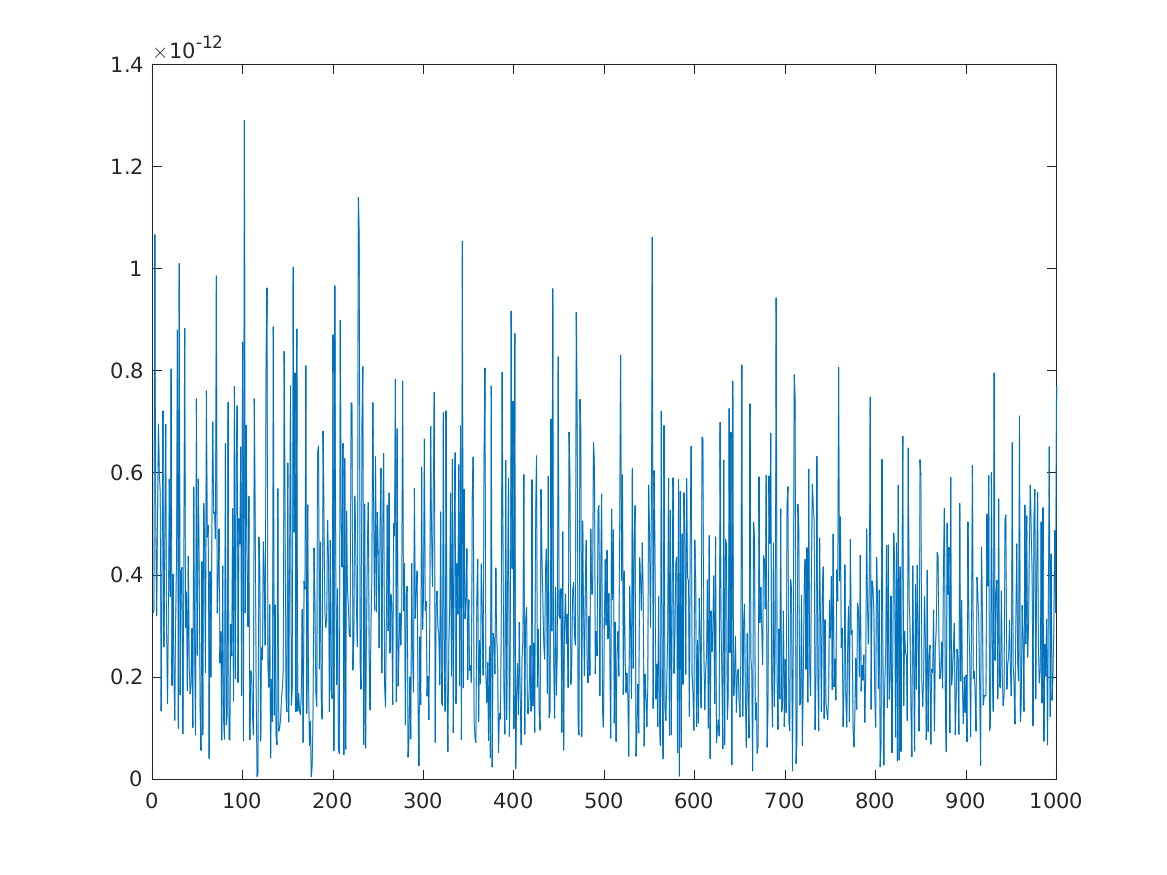
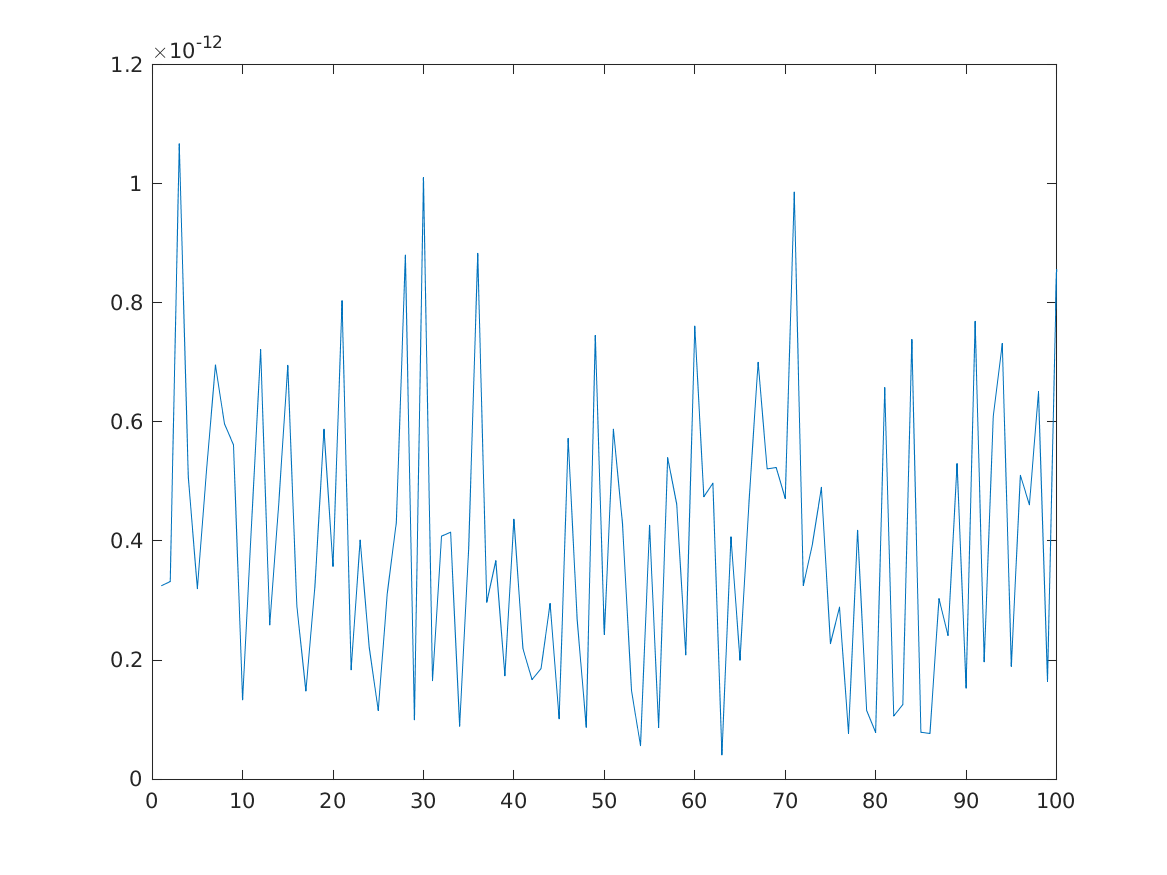
updated

diff --git a/matlab/testing.m b/matlab/testing.m
@@ -11,7 +11,7 @@ cfg.hilbert = 'abs';
 
 [hilbert_data] = ft_preprocessing(cfg, data)
 
-plot(hilbert_data.trial{1}(1:1000));
+plot(hilbert_data.trial{1}(1:100));
 saveas(gcf, 'output/hilbert_test1.png');
 
 %cfg = [];
